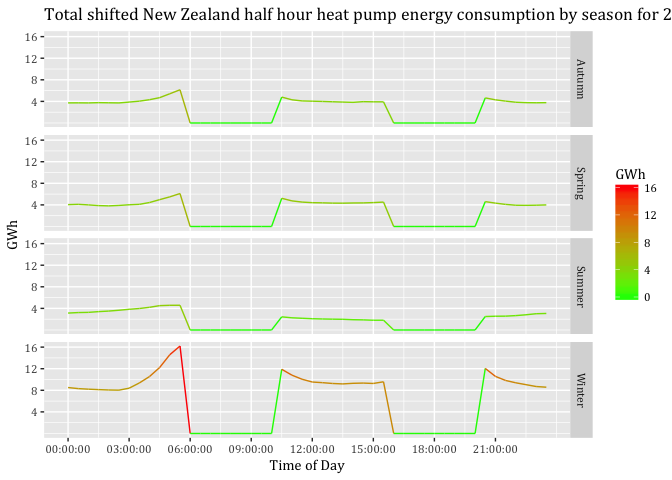
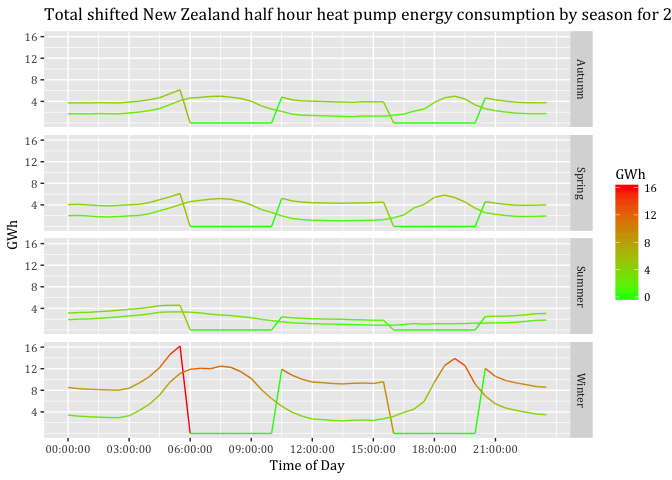
Added 'two in one' plot

diff --git a/analysis/demandResponse/heatPumpProfileAnalysis.html b/analysis/demandResponse/heatPumpProfileAnalysis.html
@@ -219,7 +219,7 @@ div.tocify {
 <h1 class="title toc-ignore">Technical Potential of Demand Response</h1>
 <h3 class="subtitle"><em>Heat Pump Analysis</em></h3>
 <h4 class="author"><em>Carsten Dortans (<a href="mailto:xxx@otago.ac.nz">xxx@otago.ac.nz</a>)</em></h4>
-<h4 class="date"><em>Last run at: 2018-07-02 15:11:19</em></h4>
+<h4 class="date"><em>Last run at: 2018-07-02 16:27:24</em></h4>
 
 </div>
 
@@ -853,9 +853,24 @@ sc1data &lt;- sc1data[, GWhs3:= ifelse(Period ==&quot;Evening Peak&quot;,
 #Renaming GWhs3 into GWh to depict the right text in the colorbar
 setnames(sc1data, old=c(&quot;GWhs3&quot;), new=c(&quot;GWh&quot;))
 
-#Visualising
-myPlot &lt;- ggplot2::ggplot(sc1data, aes(x = obsHalfHour, color=GWh)) +
-  geom_line(aes(y=GWh), size=0.5) +
+#Visualising only shifted consumption
+#myPlot &lt;- ggplot2::ggplot(sc1data, aes(x = obsHalfHour, color=GWh)) +
+  #geom_line(aes(y=GWh), size=0.5) +
+  #theme(text = element_text(family = &quot;Cambria&quot;)) +
+  #ggtitle(&quot;Total shifted New Zealand half hour heat pump energy consumption by season for 2015&quot;) +
+  #facet_grid(season ~ .) +
+  #labs(x=&#39;Time of Day&#39;, y=&#39;GWh&#39;) +
+  #scale_y_continuous(breaks = c(4, 8, 12, 16)) +
+  #scale_x_time(breaks = c(hms::as.hms(&quot;00:00:00&quot;), hms::as.hms(&quot;03:00:00&quot;), hms::as.hms(&quot;06:00:00&quot;),       hms::as.hms(&quot;09:00:00&quot;), hms::as.hms(&quot;12:00:00&quot;), 
+  #hms::as.hms(&quot;15:00:00&quot;), hms::as.hms(&quot;18:00:00&quot;), hms::as.hms(&quot;21:00:00&quot;))) +
+  #scale_colour_gradient(low= &quot;green&quot;, high=&quot;red&quot;, guide = &quot;colorbar&quot;)
+
+#myPlot
+
+#Visualising shifted and original consumption
+myPlot &lt;- ggplot2::ggplot(sc1data, aes(x = obsHalfHour)) +
+  geom_line(aes(y=GWh, color=GWh), size=0.5) +
+  geom_line(aes(y=GWhs1, color=GWhs1), size=0.5) +
   theme(text = element_text(family = &quot;Cambria&quot;)) +
   ggtitle(&quot;Total shifted New Zealand half hour heat pump energy consumption by season for 2015&quot;) +
   facet_grid(season ~ .) +
@@ -863,12 +878,13 @@ myPlot &lt;- ggplot2::ggplot(sc1data, aes(x = obsHalfHour, color=GWh)) +
   scale_y_continuous(breaks = c(4, 8, 12, 16)) +
   scale_x_time(breaks = c(hms::as.hms(&quot;00:00:00&quot;), hms::as.hms(&quot;03:00:00&quot;), hms::as.hms(&quot;06:00:00&quot;),       hms::as.hms(&quot;09:00:00&quot;), hms::as.hms(&quot;12:00:00&quot;), 
   hms::as.hms(&quot;15:00:00&quot;), hms::as.hms(&quot;18:00:00&quot;), hms::as.hms(&quot;21:00:00&quot;))) +
-  scale_colour_gradient(low= &quot;green&quot;, high=&quot;red&quot;, guide = &quot;colorbar&quot;)
+  scale_color_gradient(low= &quot;green&quot;, high=&quot;red&quot;)
 
 myPlot</code></pre>
 <p><img src="heatPumpProfileAnalysis_files/figure-html/load%20shifting%20to%20prior%20periods-1.png" /><!-- --></p>
-<pre class="r"><code>#ggsave(&quot;Total shifted New Zealand half hour heat pump energy consumption by season for 2015.jpeg&quot;,
-      # dpi=600)</code></pre>
+<pre class="r"><code>ggsave(&quot;Original and shifted New Zealand half hour heat pump energy consumption by season for 2015.jpeg&quot;,
+       dpi=600)</code></pre>
+<pre><code>## Saving 7 x 5 in image</code></pre>
 </div>
 </div>
 <div id="myplot-example" class="section level1">
@@ -954,7 +970,7 @@ myPlot</code></pre>
 </div>
 <div id="runtime" class="section level1">
 <h1><span class="header-section-number">11</span> Runtime</h1>
-<p>Analysis completed in 12.36 seconds ( 0.21 minutes) using <a href="https://cran.r-project.org/package=knitr">knitr</a> in <a href="http://www.rstudio.com">RStudio</a> with R version 3.4.4 (2018-03-15) running on x86_64-apple-darwin15.6.0.</p>
+<p>Analysis completed in 11.43 seconds ( 0.19 minutes) using <a href="https://cran.r-project.org/package=knitr">knitr</a> in <a href="http://www.rstudio.com">RStudio</a> with R version 3.4.4 (2018-03-15) running on x86_64-apple-darwin15.6.0.</p>
 </div>
 <div id="r-environment" class="section level1">
 <h1><span class="header-section-number">12</span> R environment</h1>

diff --git a/analysis/demandResponse/heatPumpProfileAnalysis.md b/analysis/demandResponse/heatPumpProfileAnalysis.md
@@ -5,7 +5,7 @@ params:
 title: 'Technical Potential of Demand Response'
 subtitle: 'Heat Pump Analysis'
 author: 'Carsten Dortans (xxx@otago.ac.nz)'
-date: 'Last run at: 2018-07-02 15:11:19'
+date: 'Last run at: 2018-07-02 16:27:24'
 output:
   bookdown::html_document2:
     toc: true
@@ -837,9 +837,24 @@ sc1data <- sc1data[, GWhs3:= ifelse(Period =="Evening Peak",
 #Renaming GWhs3 into GWh to depict the right text in the colorbar
 setnames(sc1data, old=c("GWhs3"), new=c("GWh"))
 
-#Visualising
-myPlot <- ggplot2::ggplot(sc1data, aes(x = obsHalfHour, color=GWh)) +
-  geom_line(aes(y=GWh), size=0.5) +
+#Visualising only shifted consumption
+#myPlot <- ggplot2::ggplot(sc1data, aes(x = obsHalfHour, color=GWh)) +
+  #geom_line(aes(y=GWh), size=0.5) +
+  #theme(text = element_text(family = "Cambria")) +
+  #ggtitle("Total shifted New Zealand half hour heat pump energy consumption by season for 2015") +
+  #facet_grid(season ~ .) +
+  #labs(x='Time of Day', y='GWh') +
+  #scale_y_continuous(breaks = c(4, 8, 12, 16)) +
+  #scale_x_time(breaks = c(hms::as.hms("00:00:00"), hms::as.hms("03:00:00"), hms::as.hms("06:00:00"),       hms::as.hms("09:00:00"), hms::as.hms("12:00:00"), 
+  #hms::as.hms("15:00:00"), hms::as.hms("18:00:00"), hms::as.hms("21:00:00"))) +
+  #scale_colour_gradient(low= "green", high="red", guide = "colorbar")
+
+#myPlot
+
+#Visualising shifted and original consumption
+myPlot <- ggplot2::ggplot(sc1data, aes(x = obsHalfHour)) +
+  geom_line(aes(y=GWh, color=GWh), size=0.5) +
+  geom_line(aes(y=GWhs1, color=GWhs1), size=0.5) +
   theme(text = element_text(family = "Cambria")) +
   ggtitle("Total shifted New Zealand half hour heat pump energy consumption by season for 2015") +
   facet_grid(season ~ .) +
@@ -847,7 +862,7 @@ myPlot <- ggplot2::ggplot(sc1data, aes(x = obsHalfHour, color=GWh)) +
   scale_y_continuous(breaks = c(4, 8, 12, 16)) +
   scale_x_time(breaks = c(hms::as.hms("00:00:00"), hms::as.hms("03:00:00"), hms::as.hms("06:00:00"),       hms::as.hms("09:00:00"), hms::as.hms("12:00:00"), 
   hms::as.hms("15:00:00"), hms::as.hms("18:00:00"), hms::as.hms("21:00:00"))) +
-  scale_colour_gradient(low= "green", high="red", guide = "colorbar")
+  scale_color_gradient(low= "green", high="red")
 
 myPlot
 ```
@@ -855,8 +870,12 @@ myPlot
 ![](heatPumpProfileAnalysis_files/figure-html/load shifting to prior periods-1.png)<!-- -->
 
 ```r
-#ggsave("Total shifted New Zealand half hour heat pump energy consumption by season for 2015.jpeg",
-      # dpi=600)
+ggsave("Original and shifted New Zealand half hour heat pump energy consumption by season for 2015.jpeg",
+       dpi=600)
+```
+
+```
+## Saving 7 x 5 in image
 ```
 
 #MyPlot example
@@ -976,7 +995,7 @@ myPlot
 
 
 
-Analysis completed in 12.36 seconds ( 0.21 minutes) using [knitr](https://cran.r-project.org/package=knitr) in [RStudio](http://www.rstudio.com) with R version 3.4.4 (2018-03-15) running on x86_64-apple-darwin15.6.0.
+Analysis completed in 11.43 seconds ( 0.19 minutes) using [knitr](https://cran.r-project.org/package=knitr) in [RStudio](http://www.rstudio.com) with R version 3.4.4 (2018-03-15) running on x86_64-apple-darwin15.6.0.
 
 # R environment
 
